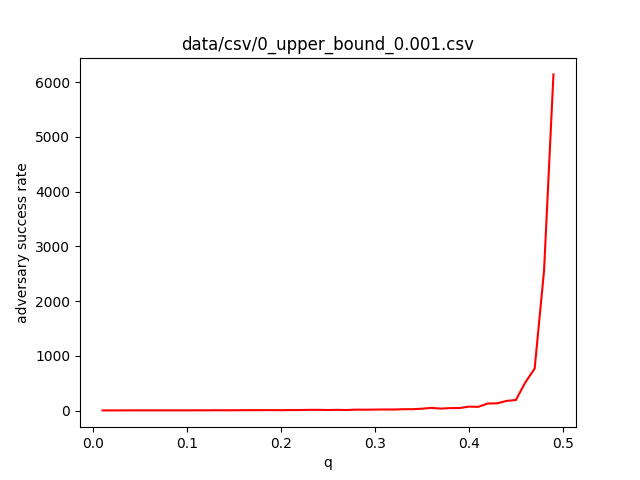
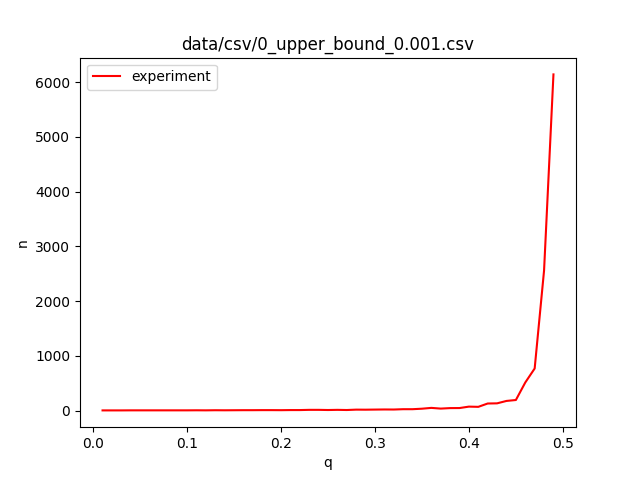
Plot nakamoto + grunspan.

Changed region(s): [[0.125, 0.125, 0.3438, 0.1875], [0.0312, 0.3438, 0.0625, 0.6875]]

diff --git a/I/AnalizaAlgorytmow/l4/plotCSV.py b/I/AnalizaAlgorytmow/l4/plotCSV.py
@@ -1,8 +1,45 @@
-import csv
+from math import exp, factorial, comb
+from pathlib import Path
 import argparse
+import csv
 import matplotlib.pyplot as plt
 import numpy as np
-from pathlib import Path
+import re
+
+
+def nakamoto(n, q):
+    result = 1
+    p = 1 - q
+    lambd = n * (q / p)
+    for k in range(n):
+        result -= exp(-lambd) * ((lambd ** k) / factorial(k)) * \
+            (1 - ((q / p) ** (n - k)))
+    return result
+
+
+def grunspan(n, q):
+    result = 1
+    p = 1 - q
+    for k in range(n):
+        result -= ((p ** n) * (q ** k) - (q ** n)
+                   * (p ** k)) * comb(k + n - 1, k)
+    return result
+
+
+def plot_nakamoto_and_grunspan(n):
+    xs = []
+    ys = []
+    yss = []
+    for q in np.linspace(0.01, 0.49, 49):
+        q = round(q, 2)
+        P = nakamoto(n, q)
+        P2 = grunspan(n, q)
+        xs.append(q)
+        ys.append(P)
+        yss.append(P2)
+    plt.plot(xs, ys, c="blue", label="nakamoto")
+    plt.plot(xs, yss, c="green", label="grunspan")
+    return xs, ys
 
 
 def main():
@@ -10,9 +47,9 @@ def main():
     parser.add_argument("-t", "--title",
                         help="Title")
     parser.add_argument("-x", "--xlabel", default="q",
-                        help="Title")
+                        help="Arguments label")
     parser.add_argument("-y", "--ylabel", default="adversary success rate",
-                        help="Title")
+                        help="Values label")
     parser.add_argument("-f", "--file",
                         help="File to be processed")
     args = parser.parse_args()
@@ -41,7 +78,14 @@ def main():
 
         plt.xlabel(xlabel)
         plt.ylabel(ylabel)
-        plt.plot(x, y, c="red")
+        plt.plot(x, y, c="red", label="experiment")
+
+        n = re.search("n_(\d+)_", Path(args.file).stem)
+        if n:
+            n = int(n.group(1))
+            plot_nakamoto_and_grunspan(n)
+
+        plt.legend()
         plt.savefig(f"{Path(args.file).stem}.png")
 
 
